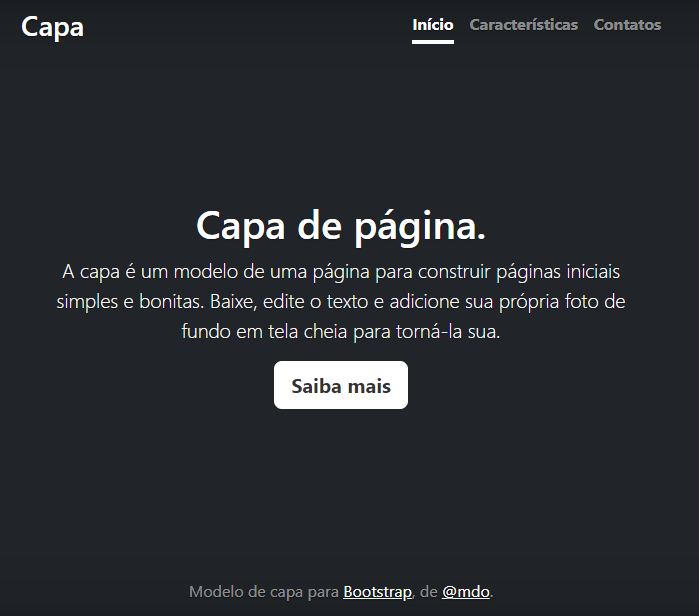
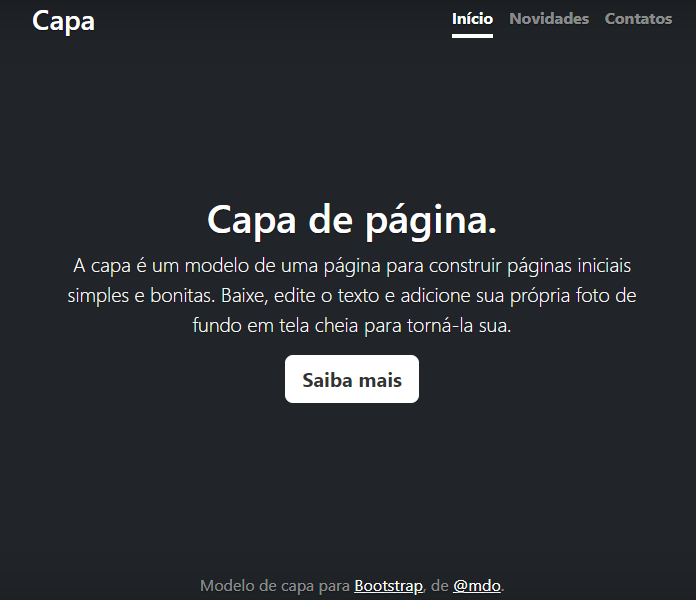
atualização do readme

diff --git a/index.html b/index.html
@@ -43,7 +43,7 @@
       <h3 class="float-md-start mb-0">Capa</h3>
       <nav class="nav nav-masthead justify-content-center float-md-end">
         <a class="nav-link active" aria-current="page" href="#">Início</a>
-        <a class="nav-link" href="#">Características</a>
+        <a class="nav-link" href="#">Novidades</a>
         <a class="nav-link" href="#">Contatos</a>
       </nav>
     </div>

diff --git a/README.md b/README.md
@@ -22,9 +22,18 @@
 Projeto em desenvolvimento para disciplina de Programação Web I. Estamos aprendendo a utilizar recursos do Bootstrap para facilitar a criação de  layouts, formulários e outros componentes com apenas algumas linhas de código.
 
 ## 🔧 Funcionalidades
+- `Funcionalidade 1`: A tela inicial é a primeira que o usuário vê quando abre a página, ela apresenta um layout de introdução ao aplicativo.
+- `Funcionalidade 2`: A tela de novidades abriga todas as atualizações da página.
+- `Funcionalidade 3`: Tela de contatos para que os usuários entrem em contato com o desenvolvedor.
 
 ### 🛠 Tecnologia ultilizadas
+HTML
+CSS
+BOOTSTRAP
 
 ## 📄 Fontes consultadas
+https://www.alura.com.br/artigos/escrever-bom-readme#descri%C3%A7%C3%A3o-do-projeto
+https://gist.github.com/lohhans/f8da0b147550df3f96914d3797e9fb89
+v
 
 ## ✒ Autores
